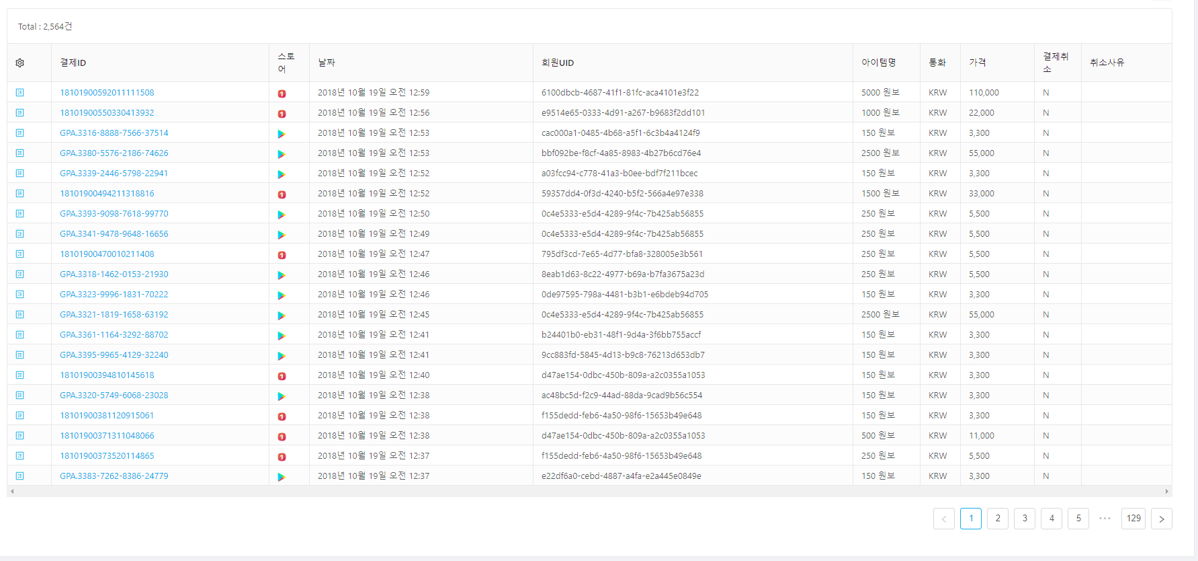
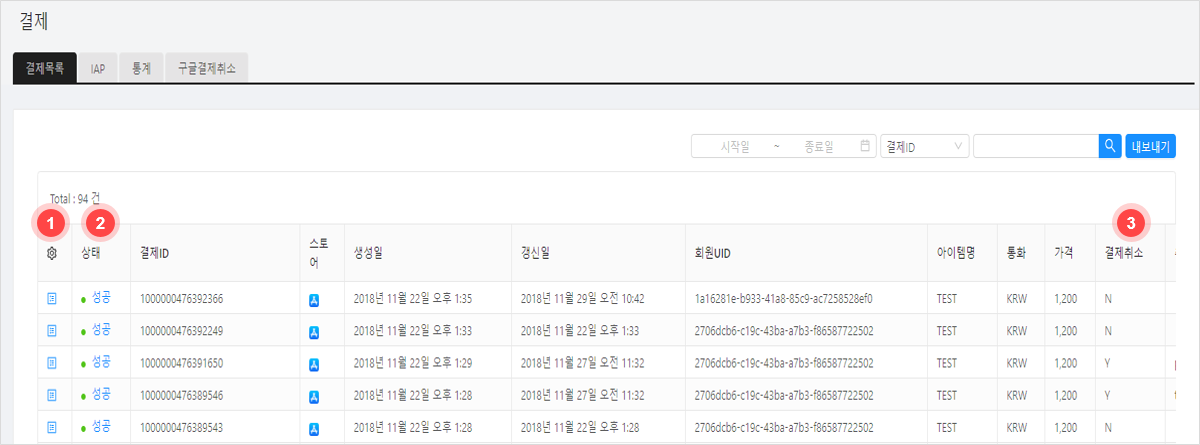
구글결제취소, 언어변경, 가이드링크 안내 추가

diff --git a/Release_Guide/ko/game/gamepot_dashboard.md b/Release_Guide/ko/game/gamepot_dashboard.md
@@ -205,13 +205,26 @@ API 인증키가 연결되면 Object Storage의 버킷이 자동으로 생성됩
 
 회원이 Google Play store, APPSTORE, ONE Store에서 결제를 시도한 내역을 확인할 수 있습니다. 
 
-![gamepot-1-218](C:/Users/DONY/Desktop/github/GamePotGuide/Release_Guide/ko/game/images/gamepot-1-218.png)
+![gamepot-1-218](./images/gamepot-1-218.png)
 
-#### 구매(IAP)
+① 성공된 결제에 대해서 결제 취소 처리를 할 수 있습니다. 결제를 취소할 경우 매출 통계에서 제외됩니다.
+
+② 회원이 시도한 결제의 성공 여부를 조회할 수 있습니다. 실패한 결제 시도에 대해서는 아이템을 재지급할 수 있습니다.
+
+③ 각각의 결제 내역 중 결제 취소 내역을 확인할 수 있습니다.
+
+- Y : 결제 취소 상태
+- N : 결제 미취소 상태
+
+![gamepot-1-218D](./images/gamepot-1-218D.png)
+
+결제 상태를 클릭하여 시도된 결제에 대한 상세 내역을 확인할 수 있으며, 실패된 결제에 대해서는 재지급 버튼을 이용하여 아이템을 재지급할 수 있습니다.
+
+#### IAP
 
 인앱 구매시 상품정보를 관리하는 기능입니다. 구글플레이, 앱스토어, 원스토어 등의 상품을 모두 등록하셔야 합니다.
 
-![gamepot-1-221](C:/Users/DONY/Desktop/github/GamePotGuide/Release_Guide/ko/game/images/gamepot-1-221.png)
+![gamepot-1-221](./images/gamepot-1-221.png)
 
 ① **In-App 아이템 추가** 버튼을 클릭하면 스토어, 상품 이름, 상품 아이디를 입력하여 유료 아이템을 생성할 수 있습니다.
 
@@ -219,9 +232,27 @@ API 인증키가 연결되면 Object Storage의 버킷이 자동으로 생성됩
 
 일일 단위로 결제 금액 데이터를 그래프로 보여주는 기능입니다.
 
-![gamepot-1-239](C:/Users/DONY/Desktop/github/GamePotGuide/Release_Guide/ko/game/images/gamepot-1-239.png)
+![gamepot-1-239](./images/gamepot-1-239.png)
 
 ① 기간을 지정하여 그래프를 볼 수 있습니다.
+
+#### 구글결제취소
+
+일정 시간마다 Google console의 결제 영수증 상태와 비교하여
+
+정상 결제건에 대해서 회원이 임의대로 결제를 취소한 경우를 알려줍니다.
+
+![gamepot-1-239B](./images/gamepot-1-239B.png)
+
+① 임의적으로 구글 결제를 취소하는 회원의 게임 접속에 대해서, 일정 조건을 설정하여 이용정지 조치를 할 수 있습니다.
+
+![gamepot-1-239C](./images/gamepot-1-239C.png)
+
+① 회원이 임의적으로 결제 취소한 총 횟수가 설정된 횟수 이상일 경우 게임 이용이 정지됩니다.
+
+② 회원이 임의적으로 결제 취소한 상품의 총합이 설정된 가격 이상일 경우 게임 이용이 정지됩니다.
+
+③ 게임 이용이 정지된 회원이 게임 접속을 시도할 경우 출력되는 안내 메세지입니다.
 
 
 
@@ -447,6 +478,24 @@ CDN을 이용하고자 할 경우 아래 CDN 주소를 입력해 주세요.
 **추가** 버튼을 클릭합니다. 아래와 같은 팝업 창이 노출되면, 매개변수와 값을 입력합니다.
 
 ![gamepot-1-241](./images/gamepot-1-241.png)
+
+
+
+### 사용자 가이드
+
+GAMEPOT 대시보드 사용 가이드 페이지로 이동합니다.
+
+![gamepot-1-239B](./images/gamepot-1-239B.png)
+
+
+
+### 언어 변경
+
+대시보드의 각 메뉴 등이 선택한 언어로 변경됩니다.
+
+![gamepot-1-239C](./images/gamepot-1-239C.png)
+
+
 
 ### 회원정보수정
 
